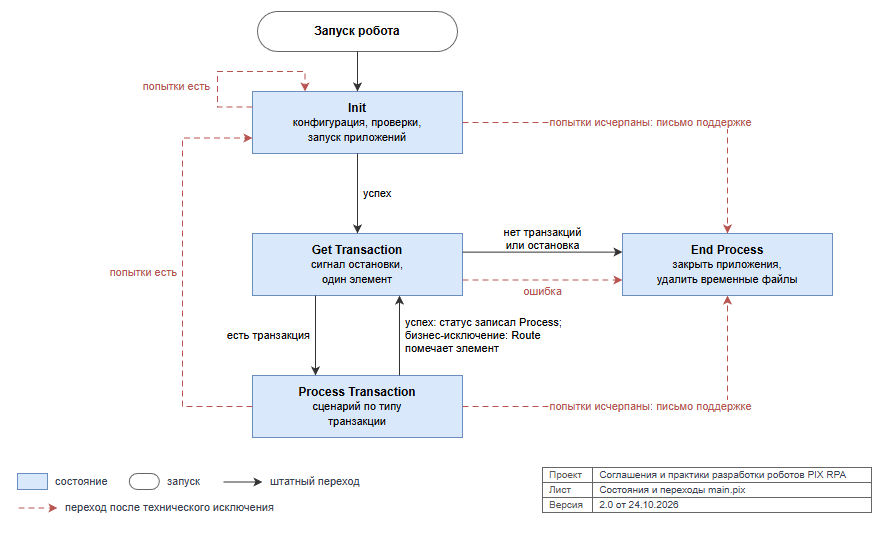
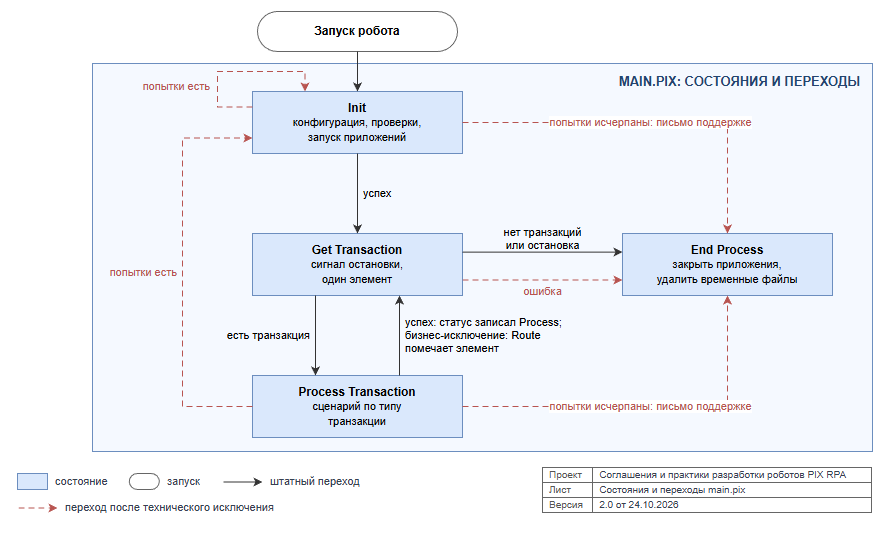
docs: схема состояний внутри контура main.pix

Changed region(s): [[0.7017, 0.1199, 0.9763, 0.1798]]

diff --git a/CHANGELOG.md b/CHANGELOG.md
@@ -30,7 +30,7 @@
 - TEMPLATE-01 переименован: «Раскладывайте скрипты по папкам по роли» вместо «Разделяйте проект на слои». Ссылки и карта разделов README обновлены
 - template.md называется «Шаблоны роботов на State Machine» и описывает, как обычно устроены шаблоны команды, без ссылки на шаблон PIX Studio; из справки «Плюсы и минусы State Machine» в project.md «Универсальный шаблон» тоже убран. Вступление объясняет, что схемы, дерево папок и таблицы файла показывают одного робота `Orders.ProcessOrderRequest`. TEMPLATE-01 проводит границу между `States` и `Infrastructure`: адаптер отвечает «как сделать в системе», сценарий «что и когда делать»; любое действие в интерфейсе или API системы лежит в `Infrastructure`, даже разовое. Справка о сценарии разбирает `AddOrderItem` по шагам таблицей и схемой: адаптеры открывают заказ, получают остаток, добавляют строку и проводят заказ, сценарий проверяет результат и выбрасывает бизнес-исключения. Робот из примера не пишет статус в БД: ответ чат-боту уходит в очередь ответов, статус заявки хранит элемент входной очереди. Из TEMPLATE-03 убрана проверка БД, пример в «Почему» переведен на очередь ответов. TEMPLATE-02 начинается с оговорки: состояний бывает три, пять или десять, правило описывает типовой шаблон из четырех состояний (REFramework и аналоги), а для других шаблонов действует тот же принцип
 - TEMPLATE-01 описывает слои по назначению кода: переходы, бизнес-логика, адаптеры внешних систем, универсальные скрипты. `Helpers` это универсальные скрипты, не привязанные к состоянию или системе, чаще всего чистые функции. Правило начинается с идеи: не складывать скрипты одной кучей в корень проекта; переходы остаются в `main.pix`, по папкам раскладываются скрипты. Таблица слоев заменена списком «папка: роль», матрица вызовов одной фразой, дерево проекта сокращено до слоев, таблица «Куда положить скрипт» одной фразой. Сокращение ШАР убрано. В TEMPLATE-02 ответ и статус элемента пишет `CompleteTransaction`, его вызывает блок `Route`. Короткое состояние, до 1–5 строк кода, остается в блоке `main.pix` без папки; End Process обычно остается контейнером в `main.pix` без отдельного скрипта и try/catch, сложное завершение выносится в `States/EndProcess` (имя папки в NAMING-02). На схеме слоев четыре состояния и пометка о контейнере End Process
-- Схемы template.md: схема слоев нарисована заново (`States`, `Infrastructure`, `Helpers` с вызовами из `States` и `Infrastructure`), на схеме состояний «Запуск робота» и `CompleteTransaction`, на схеме сценария все шаги желтые, метка элемента очереди вынесена из `Infrastructure`. В CONTRIBUTING шаг сценария всегда цвета бизнес-логики. Штамп всех листов: «Соглашения и практики разработки роботов PIX RPA»
+- Схемы template.md: схема слоев нарисована заново (`States`, `Infrastructure`, `Helpers` с вызовами из `States` и `Infrastructure`), на схеме состояний «Запуск робота», `CompleteTransaction` и контур `main.pix` вокруг состояний, на схеме сценария все шаги желтые, метка элемента очереди вынесена из `Infrastructure`. В CONTRIBUTING шаг сценария всегда цвета бизнес-логики. Штамп всех листов: «Соглашения и практики разработки роботов PIX RPA»
 - Заголовок README: «Соглашения и практики разработки роботов PIX RPA» вместо «PIX RPA Development Conventions», в описании сказано, что в репозитории и правила, и справки
 - README: «Зачем это нужно» переписан как концепция соглашения. Одну задачу можно решить по-разному, соглашение фиксирует выбор команды; пять целей: быстрый вход в проект, понятные ошибки, устойчивость к сбоям, независимость от окружения, простые изменения; таблица ситуаций «без соглашения / по соглашению» со ссылками на правила: чужой проект, ошибка в логе, смена пароля, перенос на UAT, повтор без дубля. Добавлен раздел «Что сюда не входит»: работа в команде, Git, код-ревью, документы робота, разработка своих библиотек и активностей. «С чего начать» стал таблицей по ролям: новичок, опытный разработчик, ревьюер. Предупреждение о версии PIX Studio перенесено в «Как читать правила». Карта разделов переведена из таблиц в списки: у каждого раздела вместо ключевых слов главное правило
 - Глоссарий разбит на группы: робот и проект, шаблон и состояния, транзакции и ошибки, PIX Master, интеграции и данные, документы. Добавлены «NuGet-пакет» (через пакеты подключаются активности), «Библиотека», «Входной параметр робота» и «Повтор» с тремя уровнями. «Робот»: описан запуск без PIX Master. «Unattended-робот»: убран синоним «агент», он совпадал с отдельным термином. «Идемпотентность»: добавлена проверка в целевой системе, без очереди
